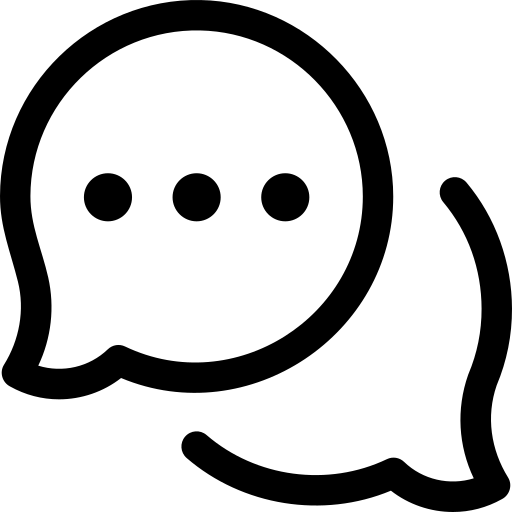
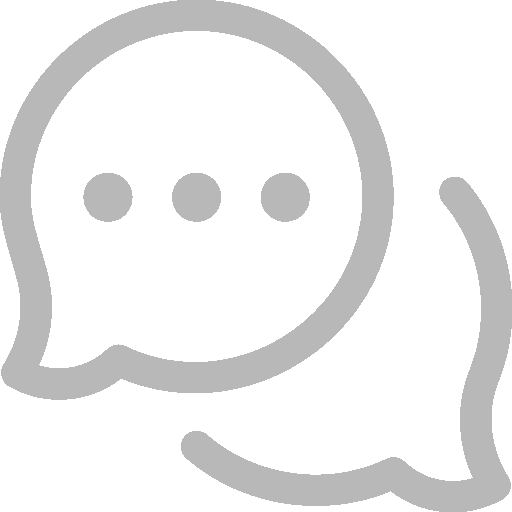
arreglado colores de backgrounds y de iconos

diff --git a/style.css b/style.css
@@ -14,7 +14,7 @@ body {
 
 .iconos {
   padding: 20px;
-  background-color: white;
+  background-color: rgb(70, 70, 70);
   display: flex;
   flex-direction: column;
   gap: 10px;
@@ -28,14 +28,14 @@ body {
 
 .chats {
   padding: 20px;
-  background-color: yellowgreen;
+  background-color: rgb(42, 42, 42);
   display: flex;
   flex-direction: column;
   gap: 10px;
   width: 20%;
   height: 700px;
   overflow-y: auto;
-
+  color: white;
 }
 
 .whatsapp {
@@ -100,7 +100,7 @@ p {
   max-width: 450px;
   padding: 5px 5px 5px 34px;
   border: none;
-  background-color: white;
+  background-color: rgb(64, 64, 64);
   background-image: url('lupa.png');
   background-repeat: no-repeat;
   background-size: 16px 16px;

diff --git a/index.html b/index.html
@@ -20,7 +20,10 @@
       <img src="herramientas.png" alt="herramientas" class="tuerca">
     </div>
     <div class="chats">
-      <h1>Chats</h1>
+      <div>
+        <h1>Chats</h1>
+
+      </div>
       <div class="buscar">
         <input type="text" class="buscador" placeholder="Search">
       </div>
